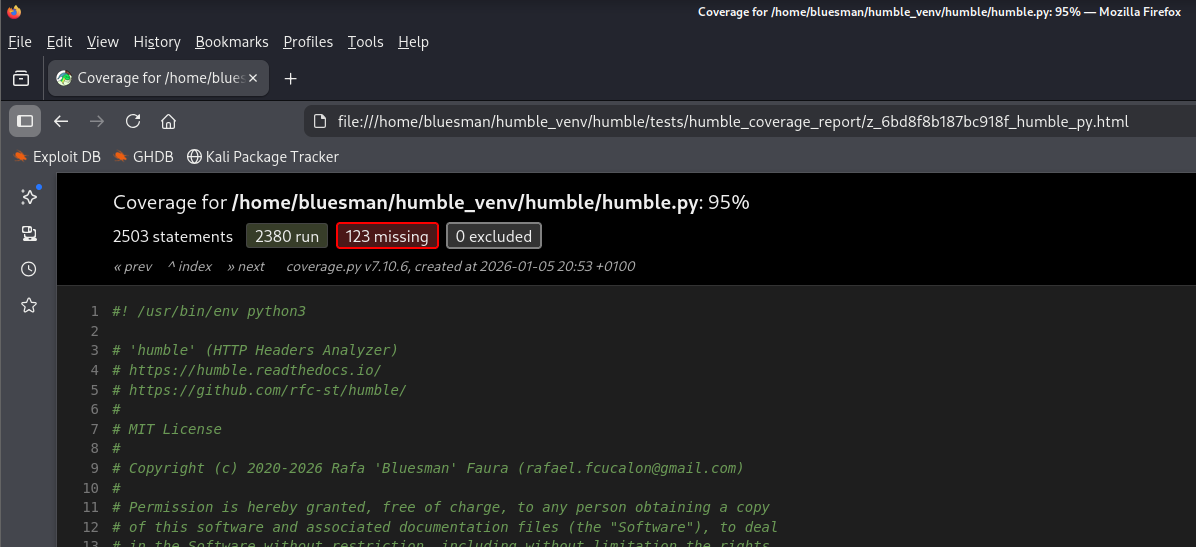
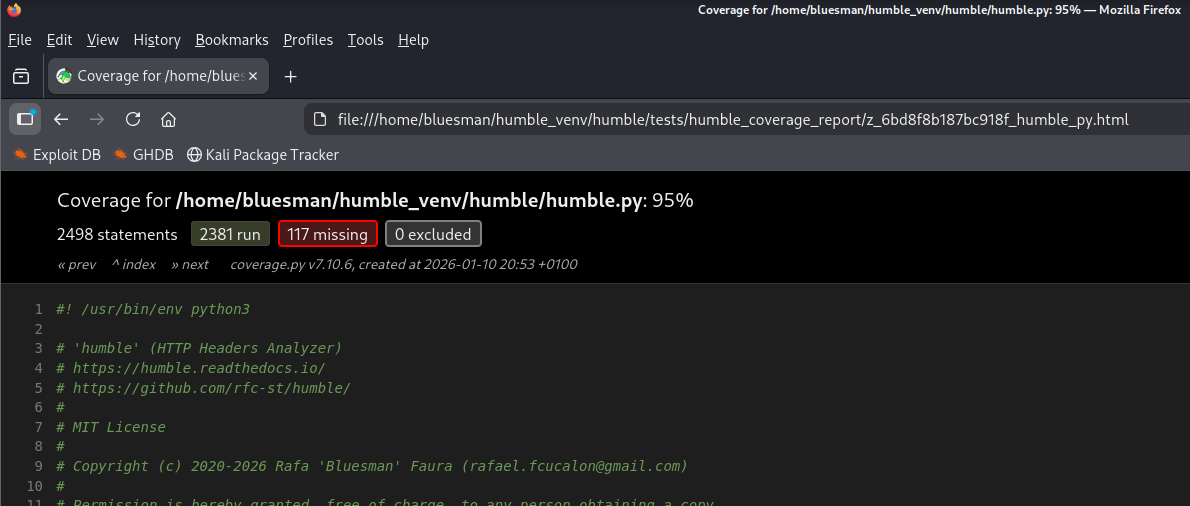
Feature: 1 new unit test

Changed region(s): [[0.0, 0.0593, 1.0, 1.0], [0.5597, 0.0, 0.995, 0.0296], [0.0, 0.0, 0.0311, 0.0296]]

diff --git a/tests/test_humble.py b/tests/test_humble.py
@@ -60,6 +60,7 @@ HUMBLE_TEST_FILES = {
     'GRADE_C': 'headers_test_grade_c.txt',
     'GRADE_D': 'headers_test_grade_d.txt',
     'CLIENT_ERROR': 'client_error_test.txt',
+    'CSP_BASE64_NONCE': 'headers_test_csp_base64_nonce.txt',
     'CSP_HEX_NONCE': 'headers_test_csp_hex_nonce.txt',
     'NO_HEADERS': 'headers_test_none.txt',
     'NO_SEC_HEADERS': 'headers_test_nonesecurity.txt',
@@ -127,6 +128,8 @@ TEST_CFGS = {
                           'Analysis Grade'),
     'test_corner_cases_brief': (['-u', TEST_URLS[2], '-if',
                                  PATHS['GRADE_D'], '-b'], 'Analysis Grade'),
+    'test_csp_base64_nonce': (['-u', TEST_URLS[2], '-if',
+                               PATHS['CSP_BASE64_NONCE']], 'Analysis Grade'),
     'test_csp_hex_nonce': (['-u', TEST_URLS[2], '-if', PATHS['CSP_HEX_NONCE']],
                            'Analysis Grade'),
     'test_detailed_analysis': (['-u', TEST_URLS[9]], 'Analysis Grade:'),
